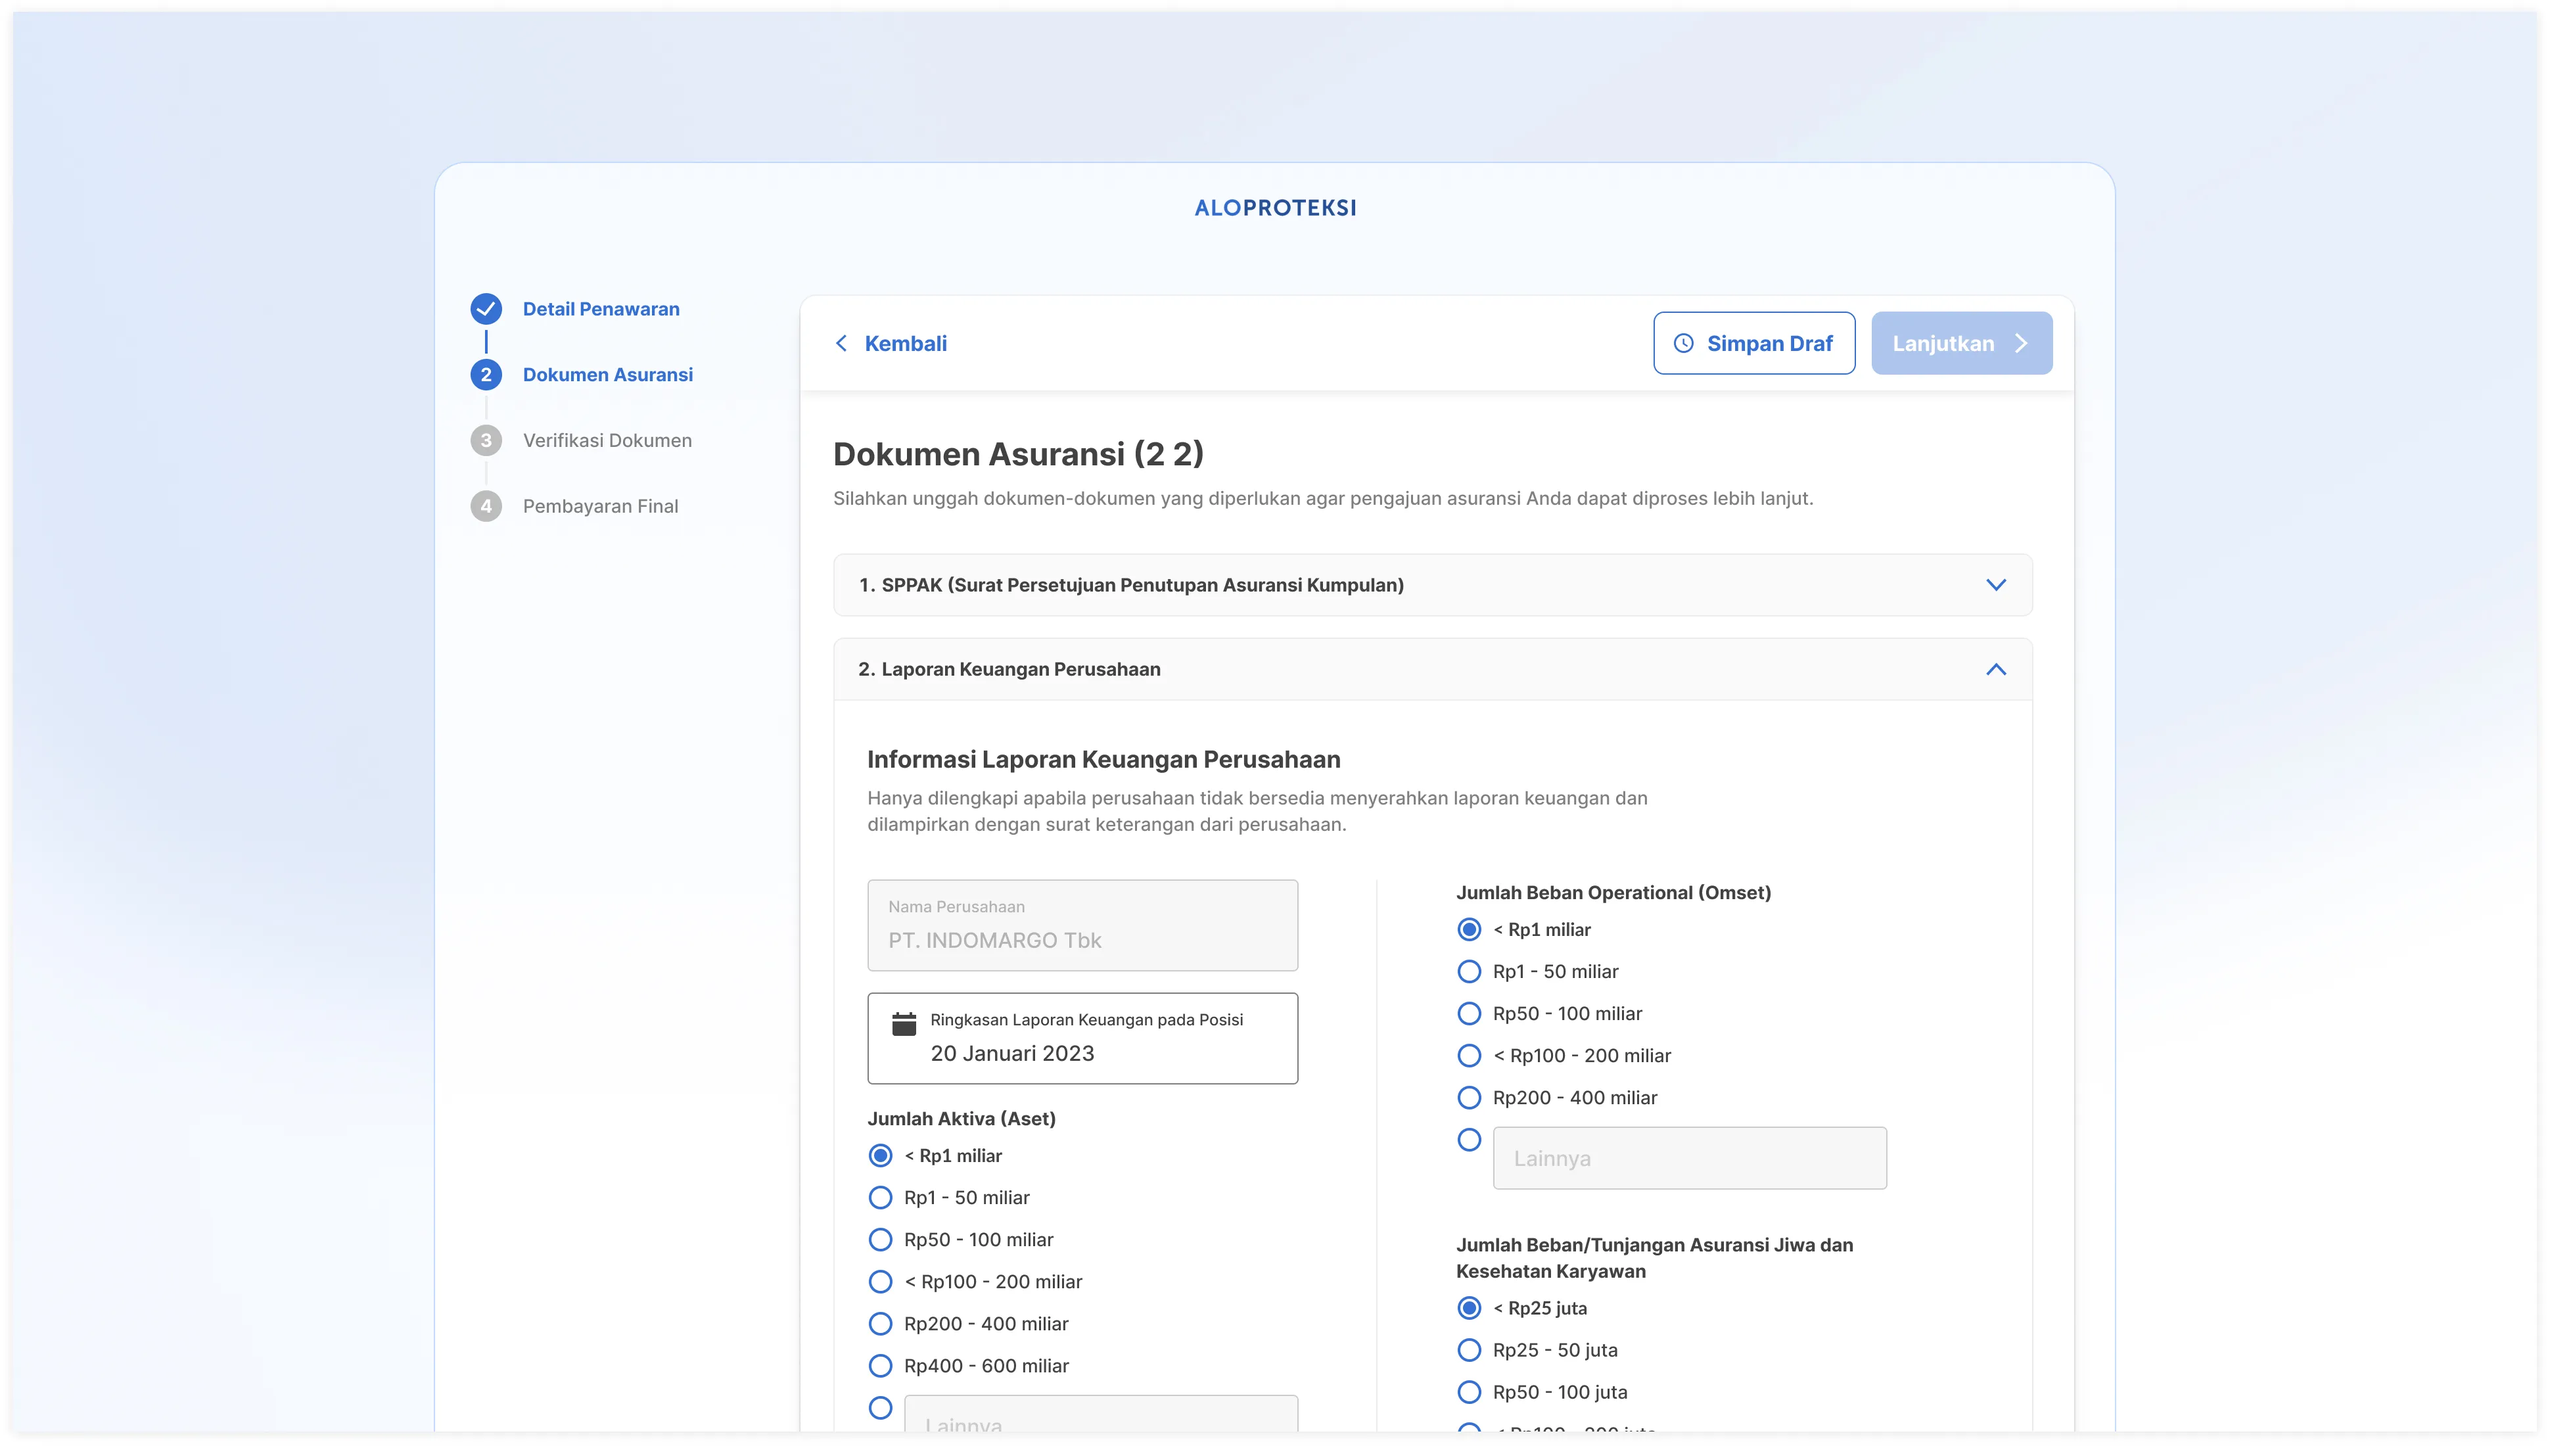
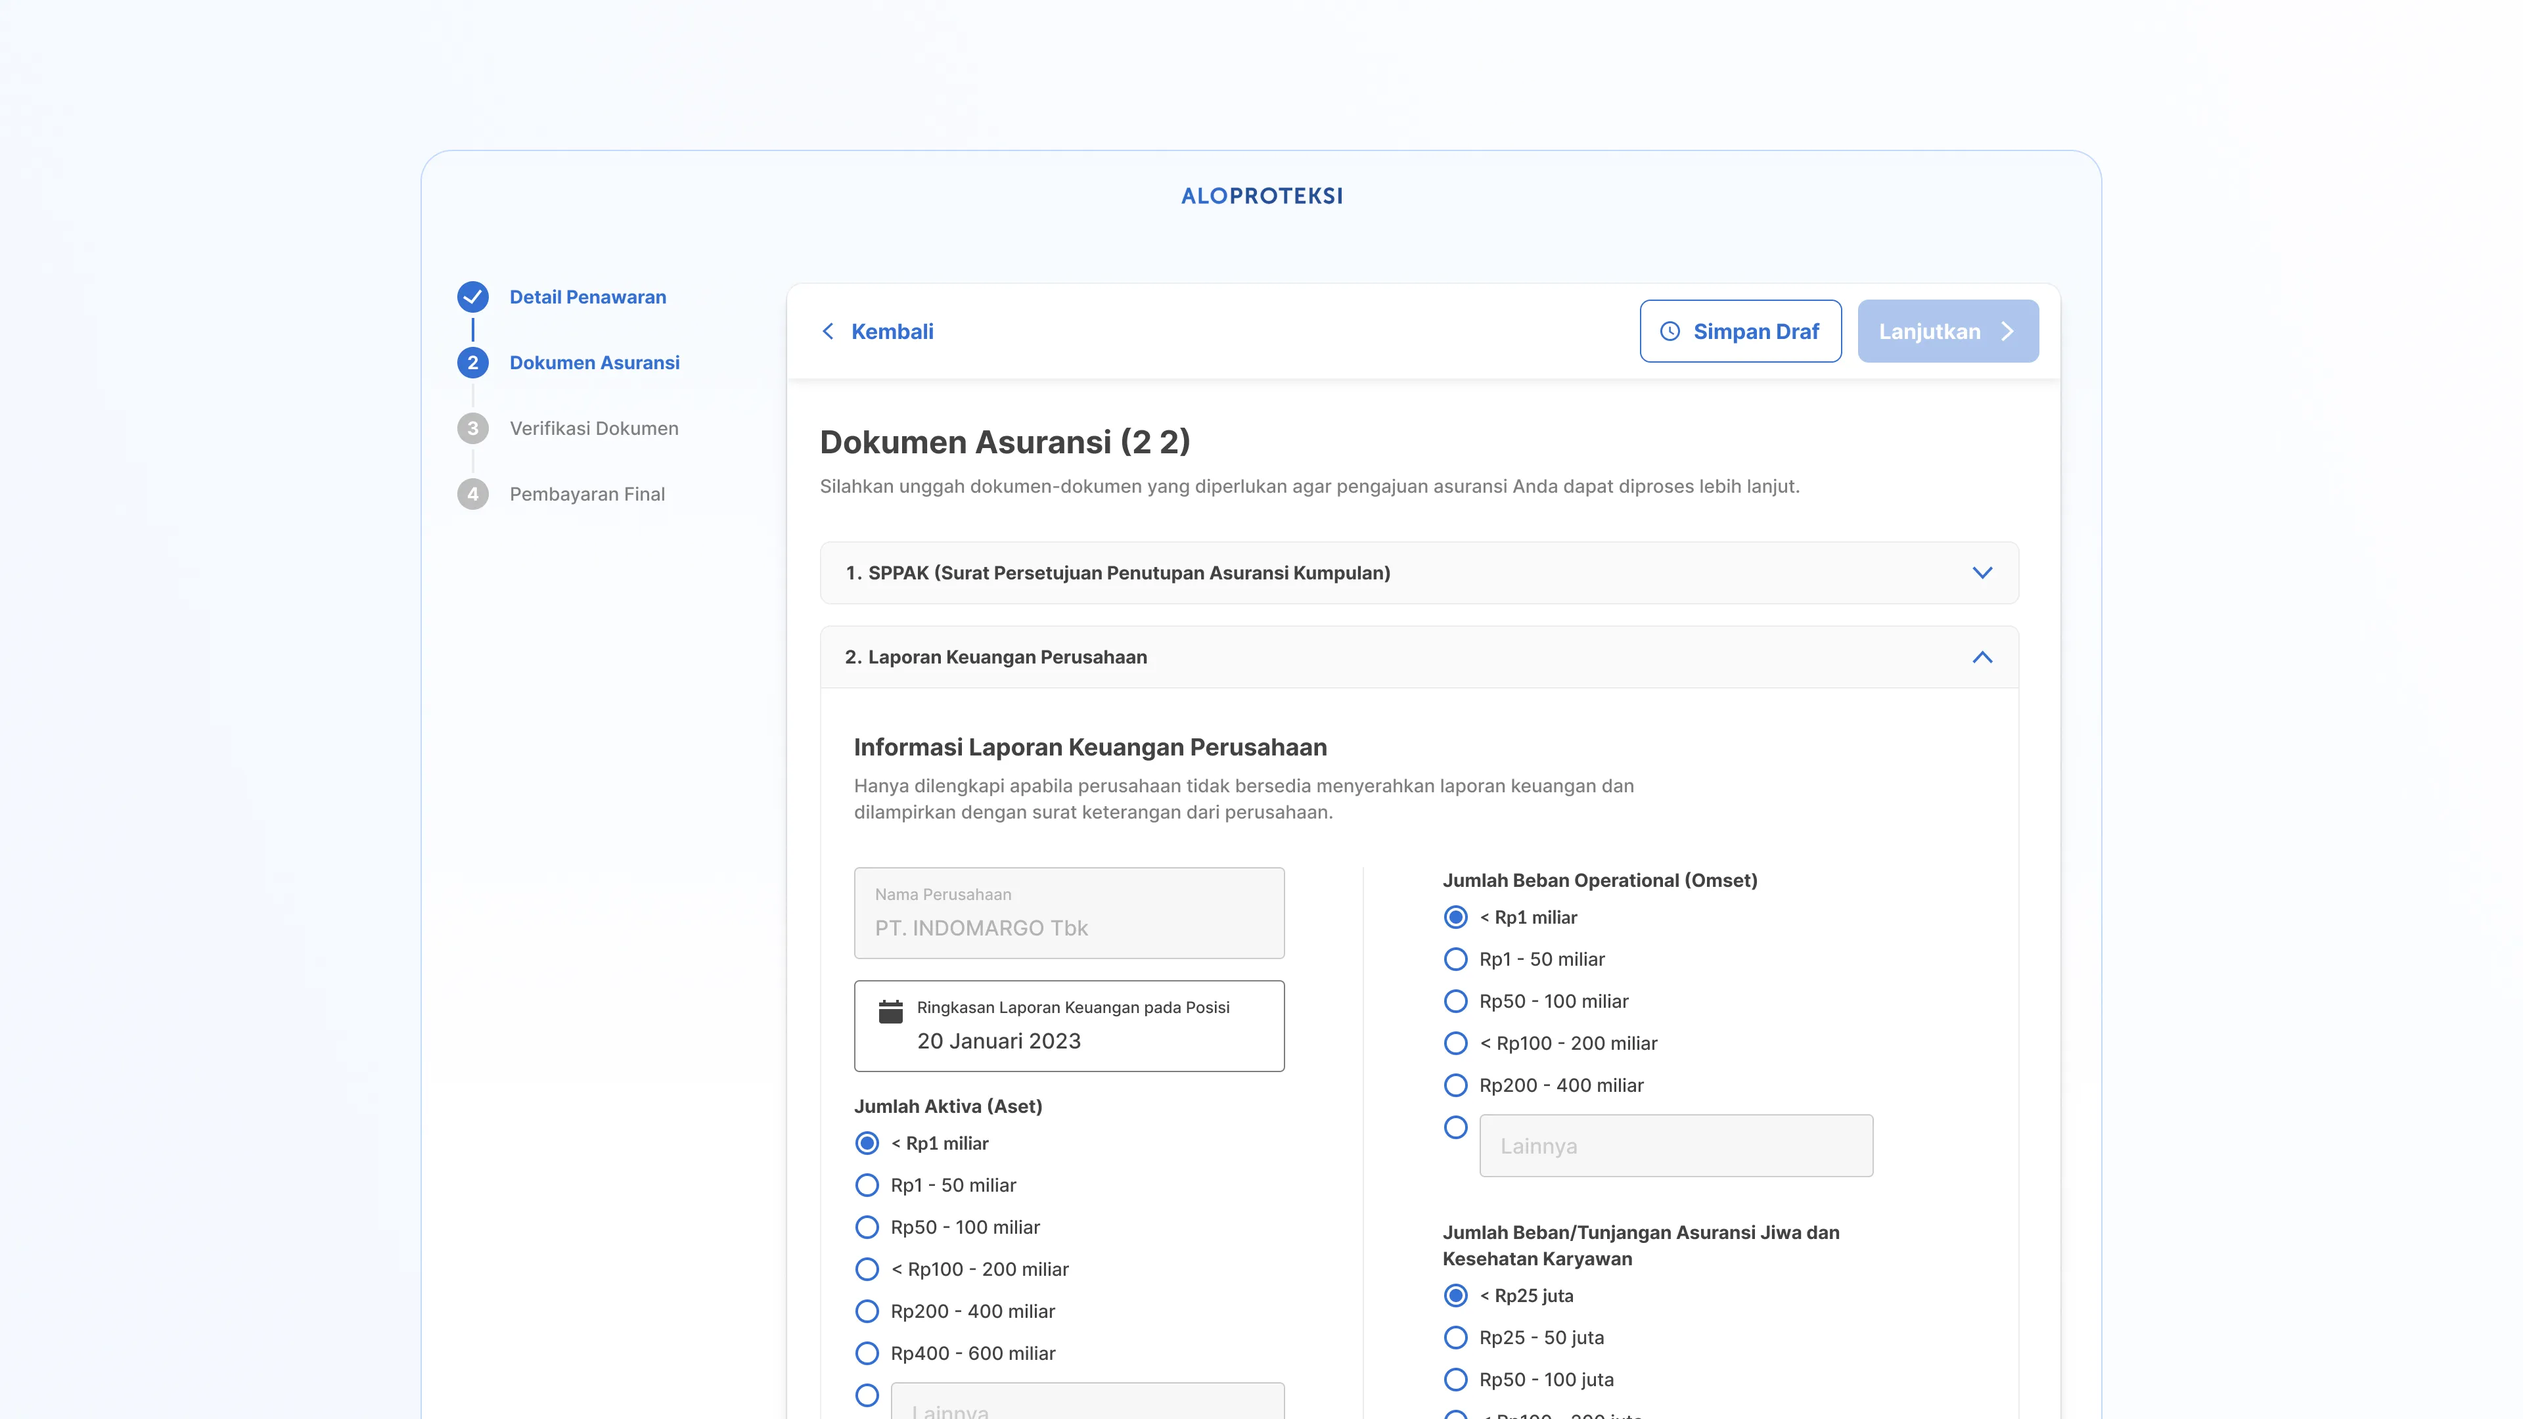
Update project assets and minor fixes

diff --git a/src/pages/404.js b/src/pages/404.js
@@ -1,0 +1,193 @@
+import Head from 'next/head';
+
+export default function Custom404() {
+    return (
+        <>
+            <Head>
+                <title>404 - Page Not Found | Indra</title>
+                <meta name="description" content="Oops! This page doesn't exist." />
+                <link
+                    href="https://fonts.googleapis.com/css2?family=Libre+Baskerville:ital,wght@0,400;0,700;1,400&display=swap"
+                    rel="stylesheet"
+                />
+            </Head>
+            <div
+                style={{
+                    minHeight: '100vh',
+                    display: 'flex',
+                    alignItems: 'center',
+                    justifyContent: 'center',
+                    background: 'linear-gradient(-45deg, #F5D547, #FFF6A2, #C3D7FF, #E0EAFF)',
+                    backgroundSize: '400% 400%',
+                    animation: 'gradientShift 15s ease infinite',
+                    padding: '20px',
+                }}
+            >
+                <div style={{ textAlign: 'center', maxWidth: '600px' }}>
+                    <h1
+                        style={{
+                            fontFamily: "'Libre Baskerville', Georgia, serif",
+                            fontSize: 'clamp(120px, 25vw, 200px)',
+                            fontWeight: 400,
+                            fontStyle: 'italic',
+                            color: '#2D2D2D',
+                            lineHeight: 1,
+                            margin: 0,
+                            letterSpacing: '-0.02em',
+                            display: 'flex',
+                            justifyContent: 'center',
+                        }}
+                    >
+                        <span className="char" style={{ animationDelay: '0s' }}>4</span>
+                        <span className="char" style={{ animationDelay: '0.1s' }}>0</span>
+                        <span className="char" style={{ animationDelay: '0.2s' }}>4</span>
+                    </h1>
+                    <p className="subtitle">
+                        Whoops! Looks like this page went on vacation without telling anyone.
+                    </p>
+
+                    {/* Neumorphic Button */}
+                    <a href="/" className="btn-home">
+                        <div className="btn-home-content">
+                            <div className="btn-home-icon">
+                                <svg
+                                    width="20"
+                                    height="20"
+                                    viewBox="0 0 24 24"
+                                    fill="none"
+                                    stroke="currentColor"
+                                    strokeWidth="2"
+                                    strokeLinecap="round"
+                                    strokeLinejoin="round"
+                                >
+                                    <path d="M3 9l9-7 9 7v11a2 2 0 0 1-2 2H5a2 2 0 0 1-2-2z"></path>
+                                    <polyline points="9 22 9 12 15 12 15 22"></polyline>
+                                </svg>
+                            </div>
+                            <p className="btn-home-text">Home</p>
+                        </div>
+                    </a>
+                </div>
+            </div>
+
+            <style jsx global>{`
+                @keyframes gradientShift {
+                    0% { background-position: 0% 50%; }
+                    50% { background-position: 100% 50%; }
+                    100% { background-position: 0% 50%; }
+                }
+
+                @keyframes fadeSlideIn {
+                    from {
+                        opacity: 0;
+                        transform: translateY(20px);
+                    }
+                    to {
+                        opacity: 1;
+                        transform: translateY(0);
+                    }
+                }
+
+                .char {
+                    display: inline-block;
+                    opacity: 0;
+                    transform: translateY(20px);
+                    animation: fadeSlideIn 0.5s ease forwards;
+                }
+
+                .subtitle {
+                    font-family: 'Inter', sans-serif;
+                    font-size: clamp(18px, 4vw, 24px);
+                    font-weight: 450;
+                    color: #2D2D2D;
+                    margin: 24px 0 40px;
+                    line-height: 1.5;
+                    opacity: 0;
+                    animation: fadeSlideIn 0.5s ease forwards;
+                    animation-delay: 0.35s;
+                }
+
+                .btn-home {
+                    position: relative;
+                    display: inline-block;
+                    padding: 0;
+                    width: 100px;
+                    height: 100px;
+                    border: none;
+                    outline: none;
+                    background-color: rgba(255, 255, 255, 0.85);
+                    border-radius: 24px;
+                    box-shadow: 0 8px 24px rgba(0, 0, 0, 0.12);
+                    transition: all 0.3s ease-in-out;
+                    cursor: pointer;
+                    text-decoration: none;
+                    opacity: 0;
+                    animation: fadeSlideIn 0.5s ease forwards;
+                    animation-delay: 0.5s;
+                }
+
+                .btn-home:hover {
+                    transform: scale(1.08);
+                    box-shadow: 0 12px 32px rgba(0, 0, 0, 0.18);
+                }
+
+                .btn-home:active {
+                    transform: scale(0.95);
+                    box-shadow: 0 4px 12px rgba(0, 0, 0, 0.1);
+                }
+
+                .btn-home-content {
+                    position: relative;
+                    display: grid;
+                    padding: 14px;
+                    width: 100%;
+                    height: 100%;
+                    grid-template-columns: 1fr 1fr 1fr 1fr;
+                    grid-template-rows: 1fr 1fr;
+                    box-shadow: inset 0px -3px 0px rgba(0, 0, 0, 0.05);
+                    border-radius: 24px;
+                    transition: 0.3s ease-in-out;
+                    z-index: 1;
+                }
+
+                .btn-home-icon {
+                    position: relative;
+                    display: flex;
+                    transform: translate3d(0px, -2px, 0px);
+                    grid-column: 4;
+                    align-self: start;
+                    justify-self: end;
+                    width: 20px;
+                    height: 20px;
+                    color: #888888;
+                    transition: 0.3s ease-in-out;
+                }
+
+                .btn-home:hover .btn-home-icon {
+                    transform: translateY(-6px);
+                    color: #666666;
+                }
+
+                .btn-home-text {
+                    position: relative;
+                    transform: translate3d(0px, -2px, 0px);
+                    margin: 0;
+                    align-self: end;
+                    grid-column: 1 / 5;
+                    grid-row: 2;
+                    text-align: center;
+                    font-family: 'Inter', sans-serif;
+                    font-size: 16px;
+                    font-weight: 600;
+                    color: #666666;
+                    transition: 0.3s ease-in-out;
+                }
+
+                .btn-home:hover .btn-home-text {
+                    transform: translateY(-4px);
+                    color: #444444;
+                }
+            `}</style>
+        </>
+    );
+}

diff --git a/src/css/main.css b/src/css/main.css
@@ -1,6 +1,7 @@
 @import url('https://fonts.googleapis.com/css2?family=Epilogue:wght@400;500;600;700&display=swap');
 @import url('https://fonts.googleapis.com/css2?family=Inter:opsz,wght@14..32,100..900&display=swap');
 @import url('https://fonts.googleapis.com/css2?family=Plus+Jakarta+Sans:wght@400;500;600;700&display=swap');
+@import url('https://fonts.googleapis.com/css2?family=Libre+Baskerville:ital,wght@0,400;0,700;1,400&display=swap');
 
 @tailwind base;
 @tailwind components;

diff --git a/src/components/sections/HeroSection/index.tsx b/src/components/sections/HeroSection/index.tsx
@@ -51,7 +51,7 @@ export default function HeroSection(props: HeroSectionProps) {
                         </div>
                     )}
 
-                    <h1 className="font-inter text-5xl md:text-7xl font-bold tracking-tight mb-6 text-gray-900">
+                    <h1 className="font-baskerville italic text-5xl md:text-7xl font-normal tracking-tight mb-6 text-gray-900">
                         {title}
                     </h1>
                     {subtitle && (

diff --git a/src/components/blocks/TitleBlock/index.tsx b/src/components/blocks/TitleBlock/index.tsx
@@ -16,6 +16,9 @@ export default function TitleBlock(props) {
                 'sb-component',
                 'sb-component-block',
                 'sb-component-title',
+                'font-baskerville',
+                'italic',
+                'font-normal',
                 color,
                 className,
                 styles?.self ? mapStyles(styles?.self) : undefined

diff --git a/tailwind.config.js b/tailwind.config.js
@@ -31,6 +31,7 @@ module.exports = {
                 epilogue: ['Epilogue', 'sans-serif'],
                 inter: ['Inter', 'sans-serif'],
                 jakarta: ['Plus Jakarta Sans', 'sans-serif'],
+                baskerville: ['Libre Baskerville', 'Georgia', 'serif'],
                 mono: ['JetBrains Mono', 'monospace']
             },
             fontWeight: {
